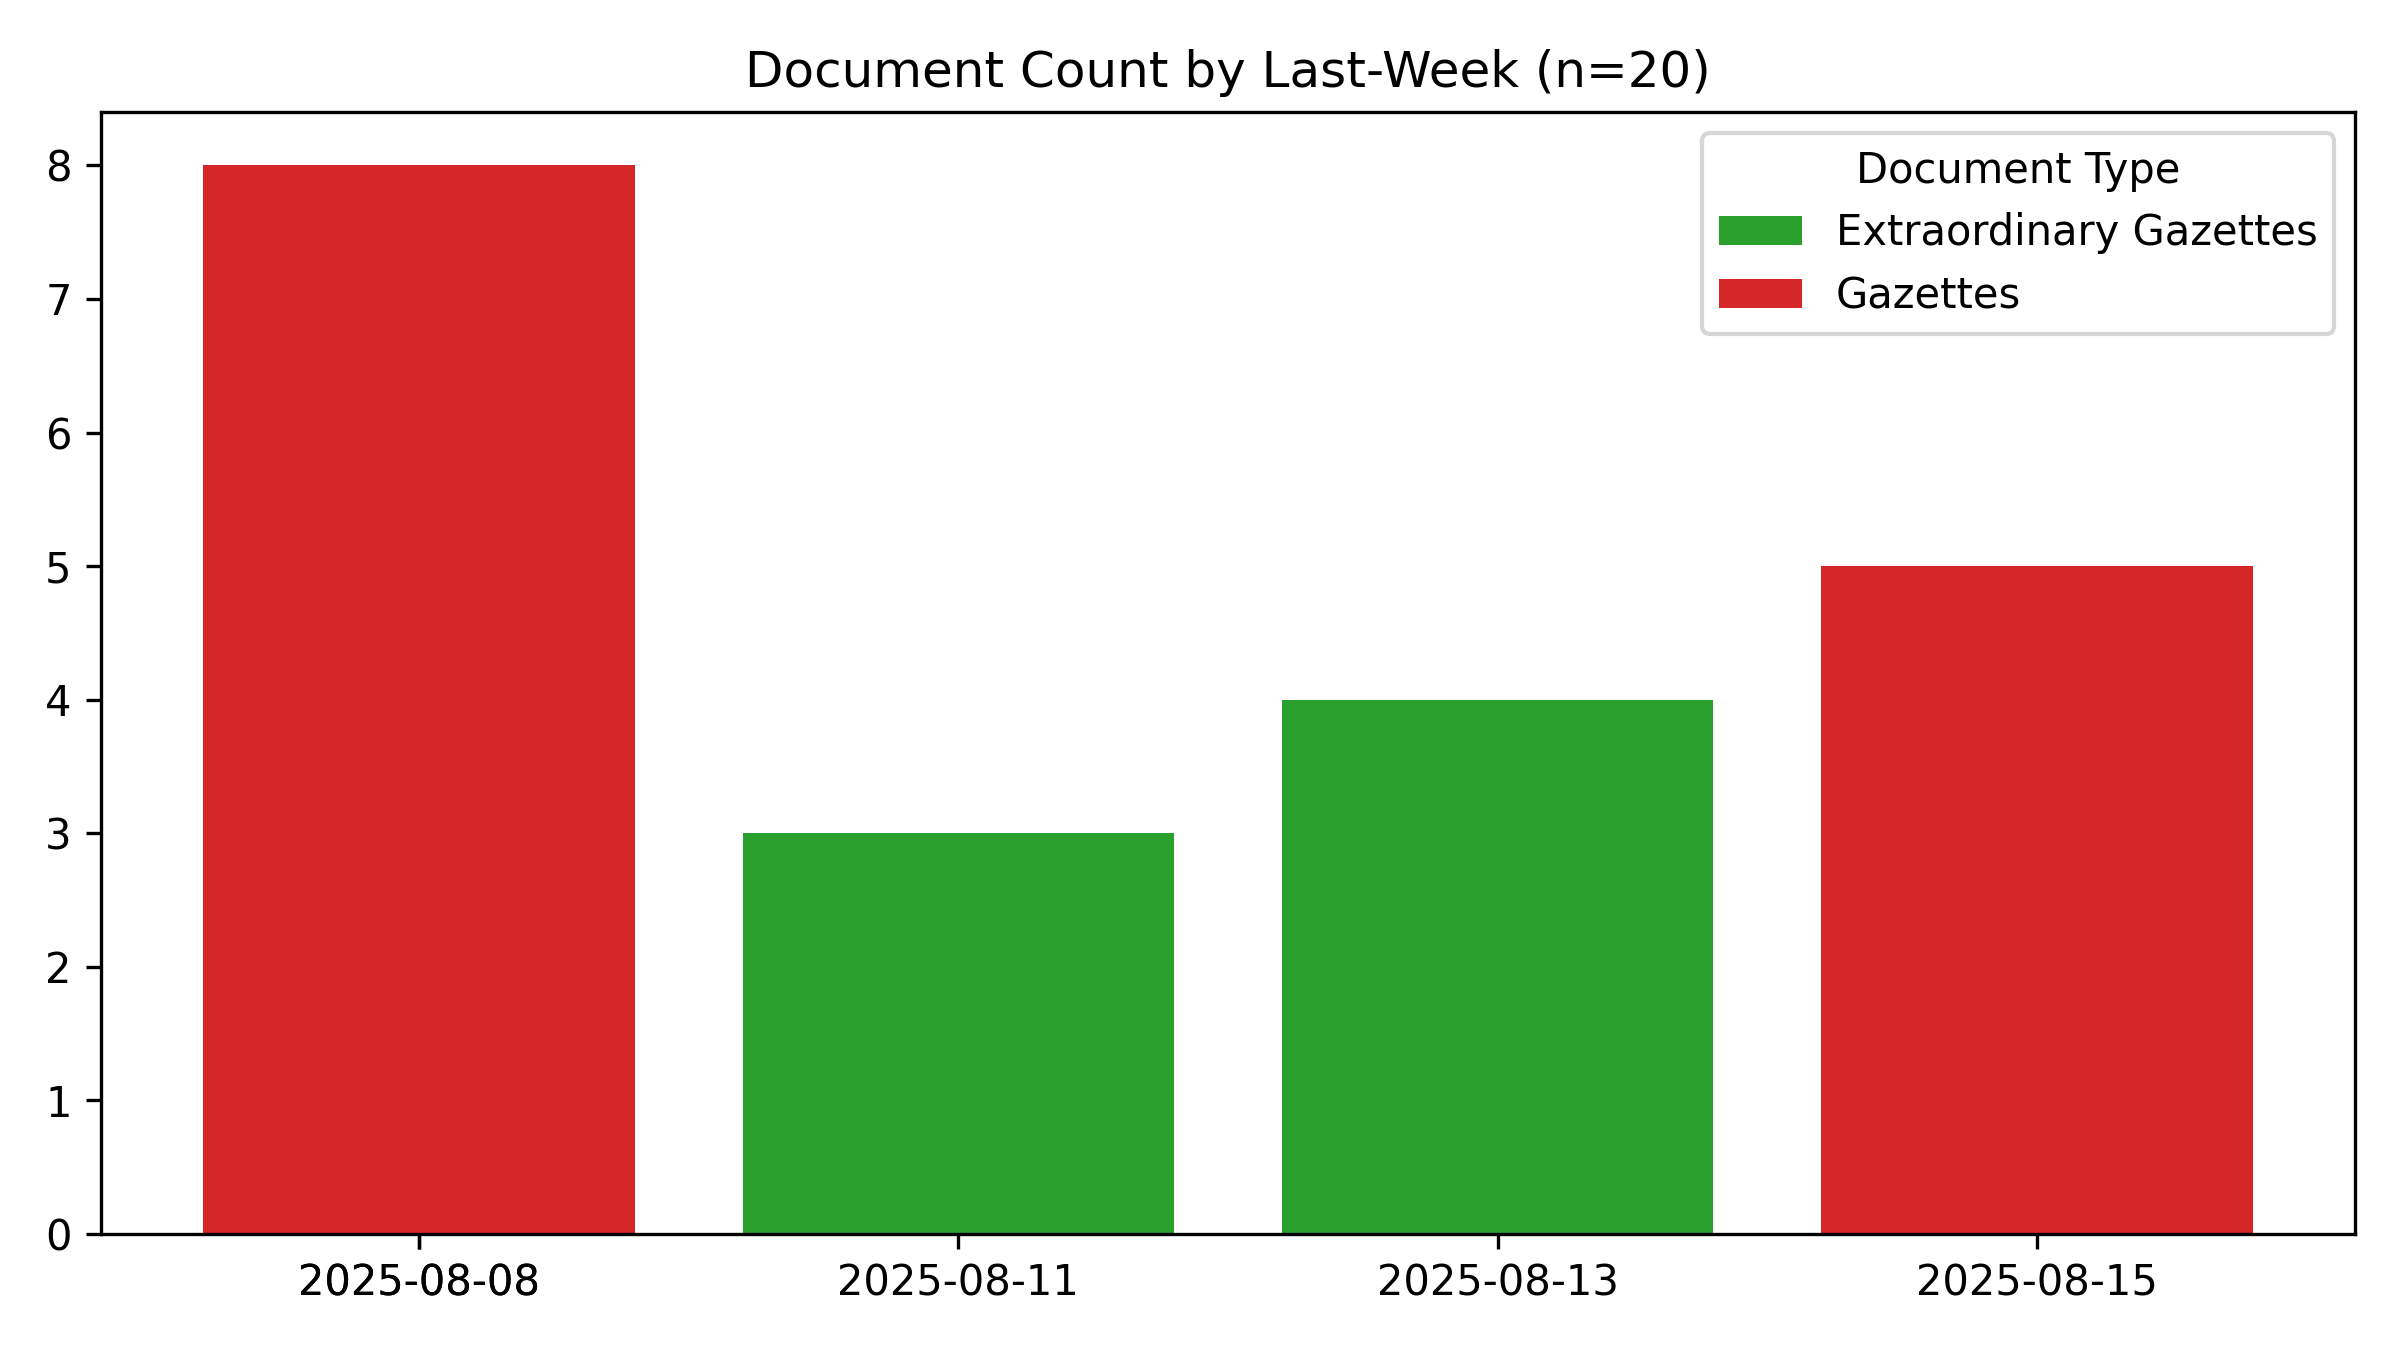
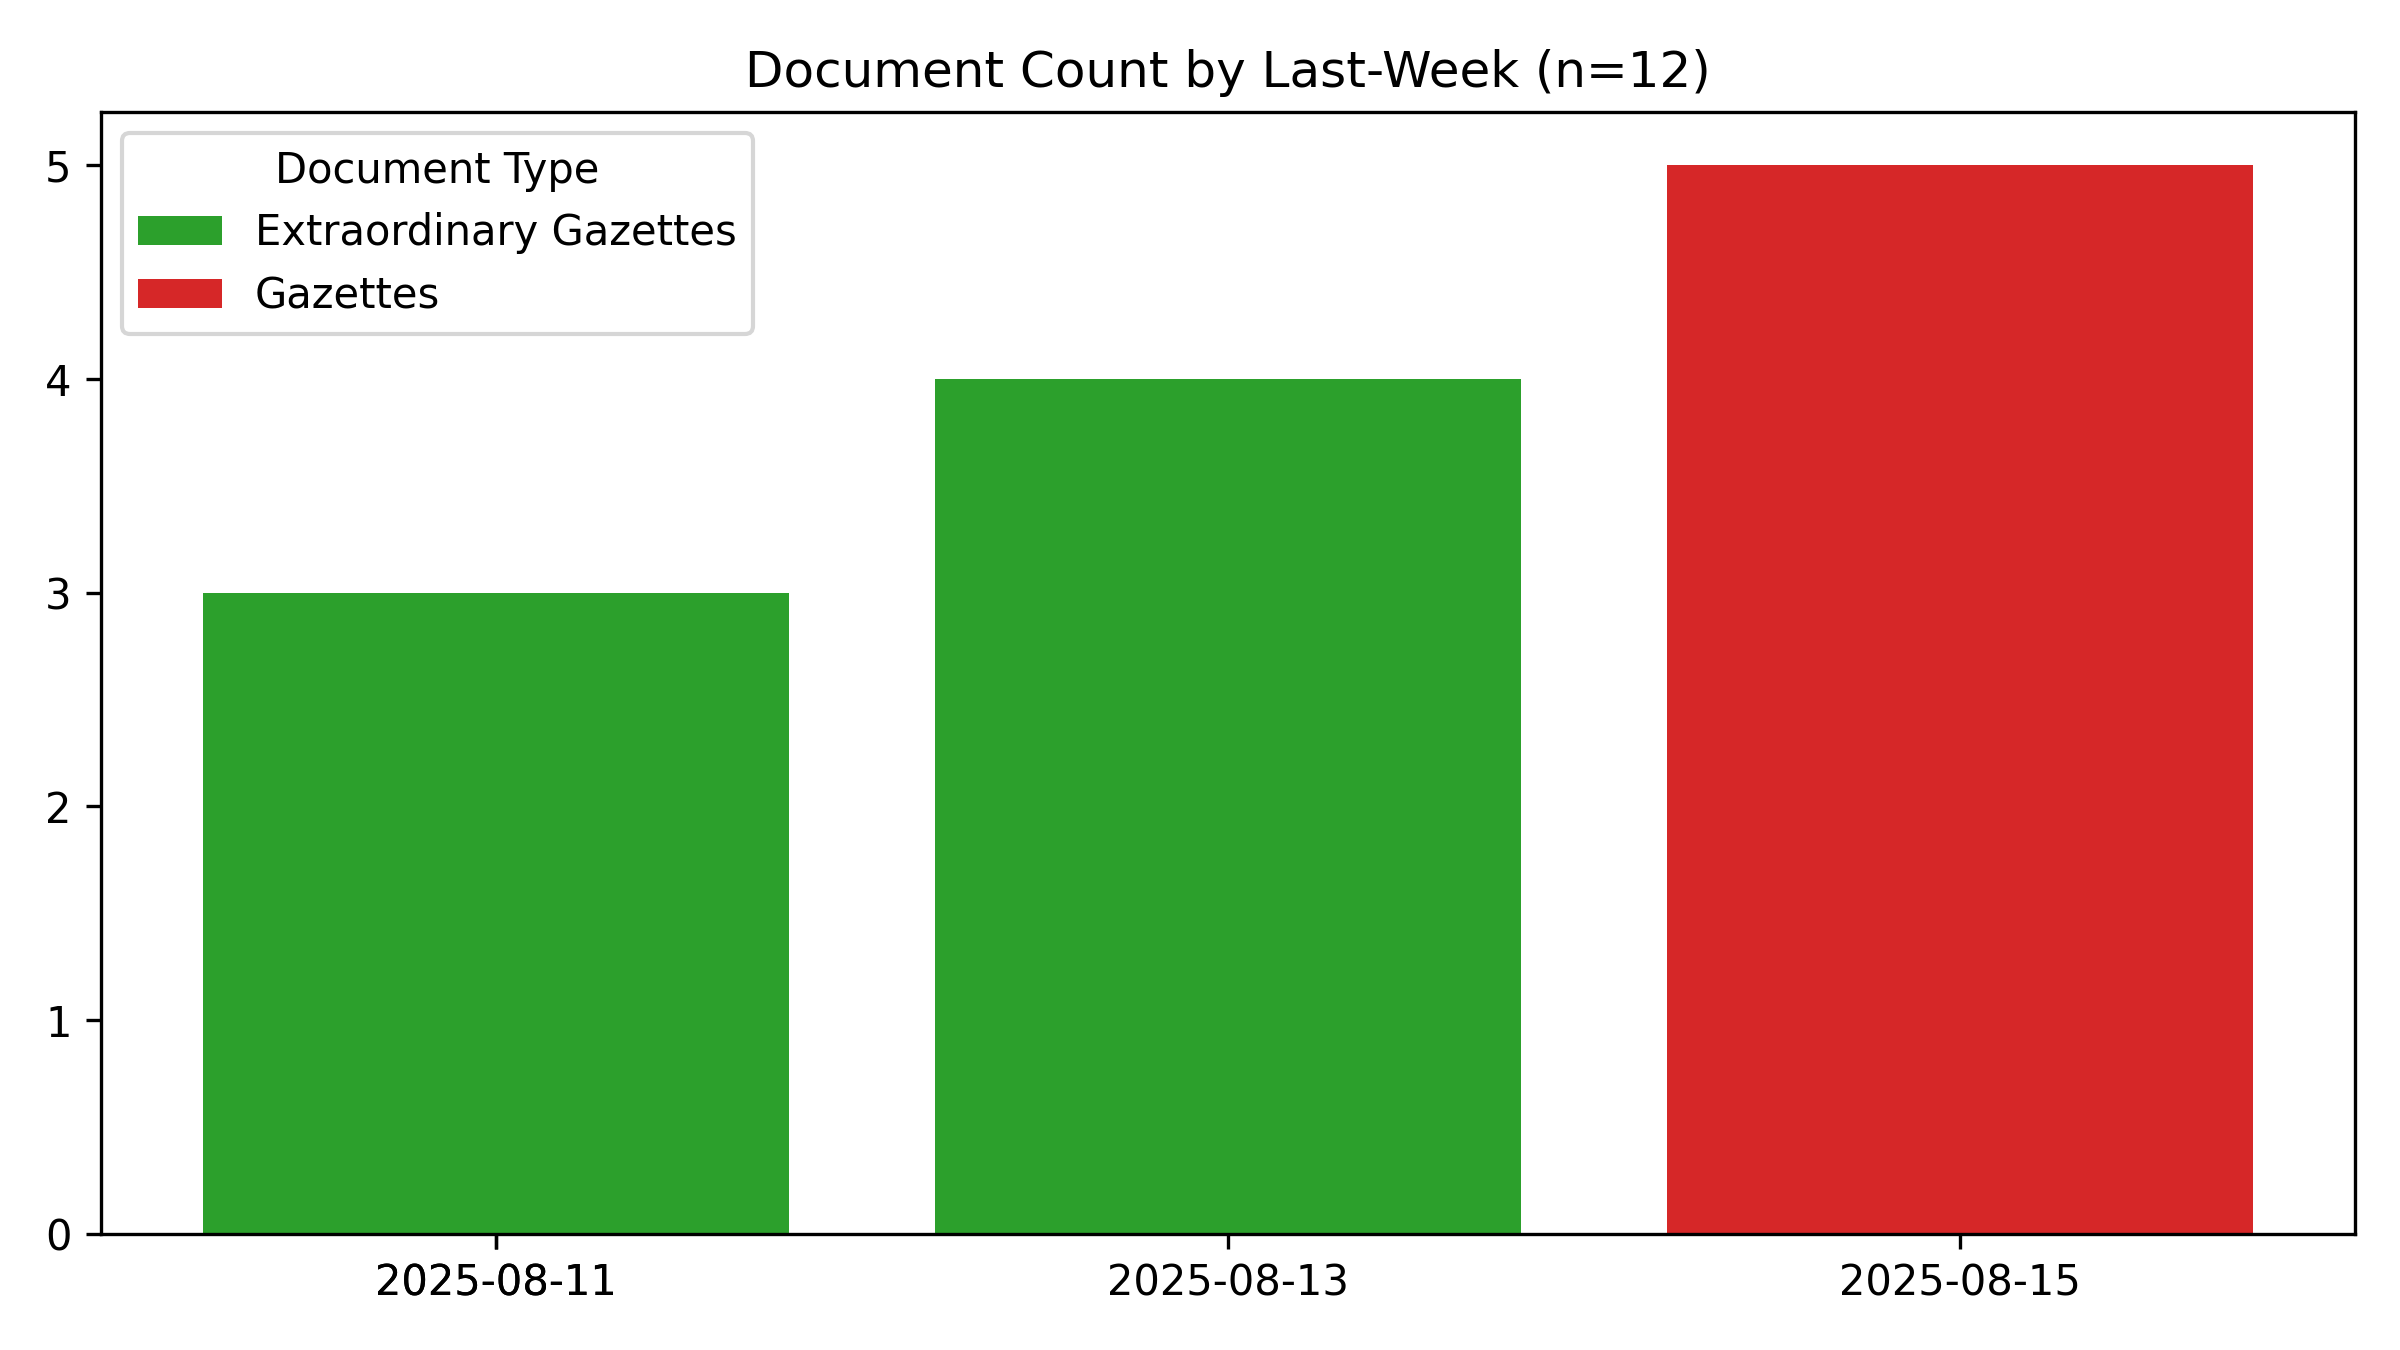
🤖 [build_readme.yml] 2025-08-16-0015

diff --git a/README.md b/README.md
@@ -1,6 +1,6 @@
 # #SriLanka 🇱🇰 - Legal Documents #Dataset
 
-*Last Updated **2025-08-16 05:14:10**.*
+*Last Updated **2025-08-16 05:45:36**.*
 
 **44,311** documents (24.2 MB), from 1981-01-22 to 2025-08-15.
 
@@ -54,7 +54,7 @@ For best results, use a desktop browser.
 
 ## Recent Documents (Published during the last 7 days)
 
-**20** Documents
+**12** Documents
 
 - 📢 [2025-08-15] [Legal Section](https://github.com/nuuuwan/lk_legal_docs_data/tree/data_2020s/data/gazettes/2025/2025-08-15-legal-section)
 - 📢 [2025-08-15] [Land Section](https://github.com/nuuuwan/lk_legal_docs_data/tree/data_2020s/data/gazettes/2025/2025-08-15-land-section)
@@ -68,11 +68,3 @@ For best results, use a desktop browser.
 - 🚨 [2025-08-11] [Dept. of L.G. Central Province - Notice Under Section 66 C (1) Elected Deputy Chairman of a Ukuwela Pradeshiya Sabha](https://github.com/nuuuwan/lk_legal_docs_data/tree/data_2020s/data/extra-gazettes/2025/2449-03)
 - 🚨 [2025-08-11] [2449/02](https://github.com/nuuuwan/lk_legal_docs_data/tree/data_2020s/data/extra-gazettes/2025/2449-02)
 - 🚨 [2025-08-11] [Sri Lanka Customs - Rates of Exchange with effect from 11.08.2025 to 17.08.2025](https://github.com/nuuuwan/lk_legal_docs_data/tree/data_2020s/data/extra-gazettes/2025/2449-01)
-- 📢 [2025-08-08] [Legal Section](https://github.com/nuuuwan/lk_legal_docs_data/tree/data_2020s/data/gazettes/2025/2025-08-08-legal-section)
-- 📢 [2025-08-08] [Land Section](https://github.com/nuuuwan/lk_legal_docs_data/tree/data_2020s/data/gazettes/2025/2025-08-08-land-section)
-- 📢 [2025-08-08] [IV (B) - Local Government](https://github.com/nuuuwan/lk_legal_docs_data/tree/data_2020s/data/gazettes/2025/2025-08-08-iv-b-local-government)
-- 📢 [2025-08-08] [IV (A) - Provincial Councils](https://github.com/nuuuwan/lk_legal_docs_data/tree/data_2020s/data/gazettes/2025/2025-08-08-iv-a-provincial-councils)
-- 📢 [2025-08-08] [(III) - TRADE MARKS AND PATENT NOTICES](https://github.com/nuuuwan/lk_legal_docs_data/tree/data_2020s/data/gazettes/2025/2025-08-08-iii-trade-marks-and-patent-notices)
-- 📢 [2025-08-08] [(IIB) - Advertising](https://github.com/nuuuwan/lk_legal_docs_data/tree/data_2020s/data/gazettes/2025/2025-08-08-iib-advertising)
-- 📢 [2025-08-08] [(IIA) - Advertising](https://github.com/nuuuwan/lk_legal_docs_data/tree/data_2020s/data/gazettes/2025/2025-08-08-iia-advertising)
-- 📢 [2025-08-08] [(I) - General](https://github.com/nuuuwan/lk_legal_docs_data/tree/data_2020s/data/gazettes/2025/2025-08-08-i-general)
